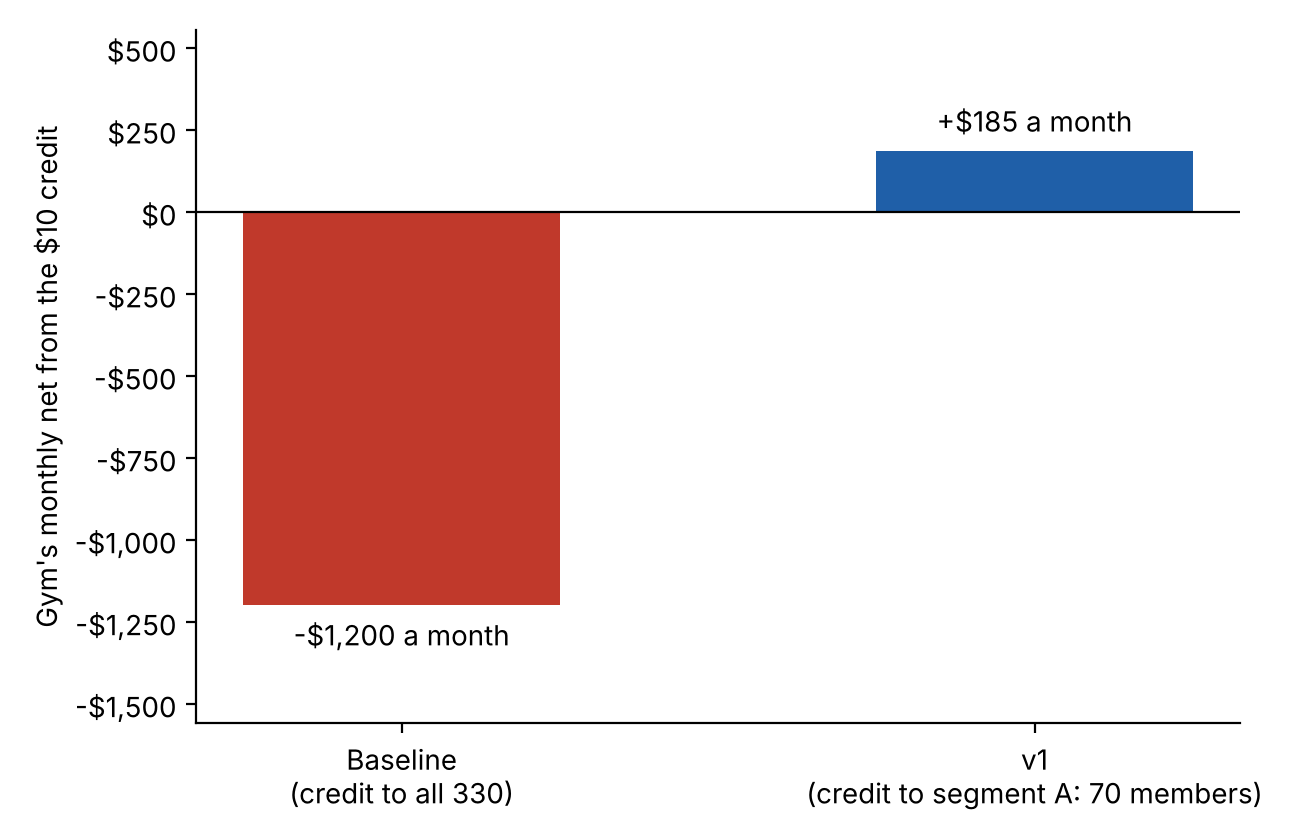
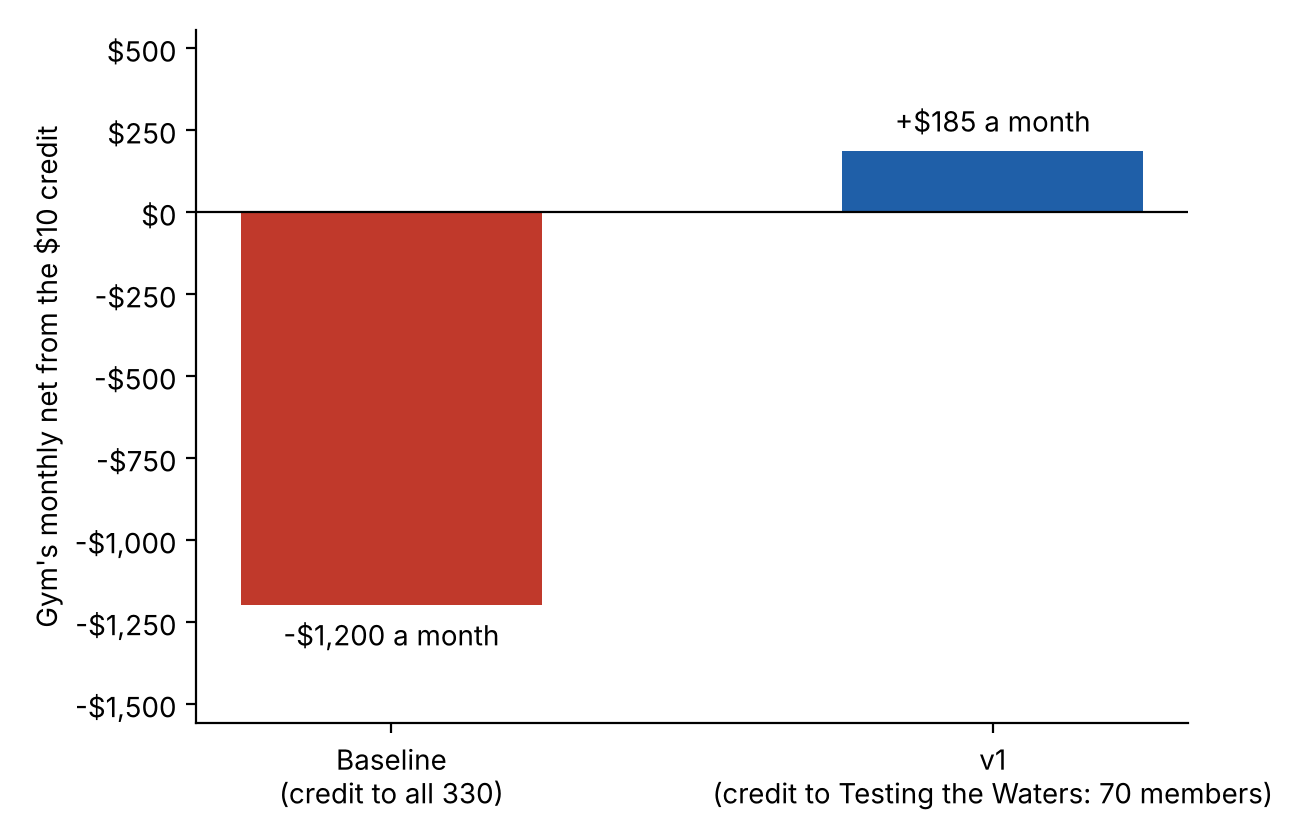
Use segment names in tables and chart
Testing the Waters, Solo Grinders, Big Spenders, Loyal Veterans.

Claude-Session: https://claude.ai/code/session_014Ji1iPF4LB3p5byUYz24Qc

diff --git a/README.md b/README.md
@@ -41,7 +41,7 @@ Both curves drop sharply up to k = 4 and flatten after, so the segments hold up 
 
 **Segments (centers, all 330 members assigned)**
 
-| | A | B | C | D |
+| | A: Testing the Waters | B: Solo Grinders | C: Big Spenders | D: Loyal Veterans |
 |---|---|---|---|---|
 | Members | 70 | 109 | 91 | 60 |
 | Age | 27 | 33 | 43 | 64 |
@@ -54,13 +54,13 @@ Both curves drop sharply up to k = 4 and flatten after, so the segments hold up 
 | Net if given credit | +$185 | −$445 | −$895 | −$45 |
 | Gets credit | Yes | No | No | No |
 
-New member (age 30, 4 visits, 42 minutes, 1 class, 5 months, $10 extras): segment A, gets the credit.
+New member (age 30, 4 visits, 42 minutes, 1 class, 5 months, $10 extras): Testing the Waters, gets the credit.
 
 **Monthly net from the credit**
 
 | | Members getting credit | Monthly net |
 |---|---|---|
 | Baseline: credit to everyone | 330 | −$1,200 |
-| v1: credit to segment A only | 70 | +$185 |
+| v1: credit to Testing the Waters only | 70 | +$185 |
 
 Targeting improves the monthly net by $1,385, about $16,600 a year.
